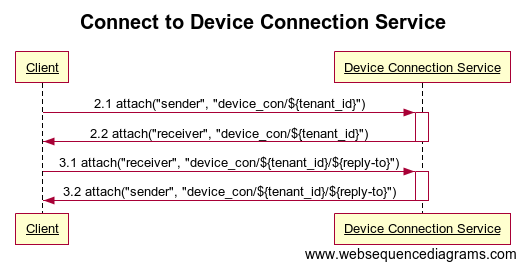
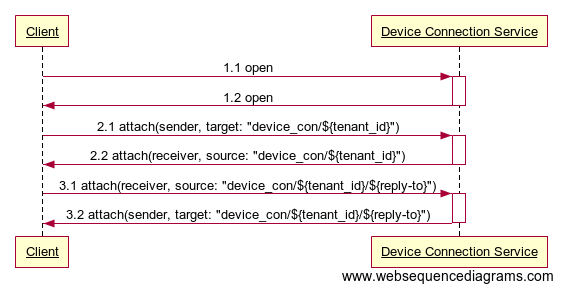
[#1245] Fix diagrams.

Changed region(s): [[0.0, 0.0297, 1.0, 0.9814]]

diff --git a/site/content/api/Device-Connection-API.md b/site/content/api/Device-Connection-API.md
@@ -1,5 +1,6 @@
 +++
-title = "Device Connection API"
+title = "Device Connection API Specification"
+slug = "Device Connection API"
 weight = 425
 +++
 
@@ -17,11 +18,7 @@ The Device Connection API is defined by means of AMQP 1.0 message exchanges, i.e
 
 {{< figure src="../connectToDeviceConnection.png" alt="A client establishes an AMQP connection and the links required to invoke operations of the Device Connection service" title="Client connecting to Device Connection service" >}}
 
-## Operations
-
-The operations described in the following sections are invoked by Hono's components during run time and are therefore mandatory to implement.
-
-### Set Last Known Gateway for Device
+## Set last known Gateway for Device
 
 Clients use this command to *set* the gateway that last acted on behalf of a given device.
 
@@ -30,10 +27,7 @@ As this operation is invoked frequently by Hono's components, implementors may c
 **Message Flow**
 
 
-The following sequence diagram illustrates the flow of messages involved in a *Client* setting the last known gateway for a device.
-
-![Set Last Known Gateway for Device message flow](../set-last-gw_Success.png)
-
+{{< figure src="../setLastKnownGatewayForDevice_Success.png" title="Client sets the last known gateway for a device" alt="A client sends a request message for setting the last known gateway and receives a response containing a confirmation" >}}
 
 **Request Message Format**
 
@@ -52,26 +46,23 @@ A response to a *set last known gateway for device* request contains the [Standa
 
 The response message's *status* property may contain the following codes:
 
-| Code | Description |
-| :--- | :---------- |
-| *204* | OK, the last known gateway for the device was updated. |
-| *400* | Bad Request, the last known gateway has NOT been updated due to invalid data in the request. |
+| Code  | Description |
+| :---- | :---------- |
+| *204* | OK, the last known gateway for the device has been updated. |
+| *400* | Bad Request, the last known gateway has not been updated due to invalid or missing data in the request. |
 
 Implementors of this API may return a *404* status code in order to indicate that no device and/or gateway with the given identifier exists for the given tenant. However, performing such a check is optional.
 
 For status codes indicating an error (codes in the `400 - 499` range) the message body MAY contain a detailed description of the error that occurred.
 
-### Get Last Known Gateway for Device
+## Get last known Gateway for Device
 
 Clients use this command to *retrieve* the gateway that last acted on behalf of a given device.
 
 **Message Flow**
 
 
-The following sequence diagram illustrates the flow of messages involved in a *Client* retrieving the last known gateway for a Device.
-
-![Get Last Known Gateway for Device message flow](../get-last-gw_Success.png)
-
+{{< figure src="../getLastKnownGatewayForDevice_Success.png" title="Client retrieving the last known gateway for a device" alt="A client sends a request message for retrieving the last known gateway and receives a response containing the information" >}}
 
 **Request Message Format**
 
@@ -105,7 +96,7 @@ The response message's *status* property may contain the following codes:
 | Code | Description |
 | :--- | :---------- |
 | *200* | OK, the payload contains the gateway ID. |
-| *400* | Bad Request, the last known gateway could not be retrieved due to invalid data in the request. |
+| *400* | Bad Request, the request message does not contain all required information/properties. |
 | *404* | Not Found, there is no last known gateway assigned to the device. |
 
 Implementors of this API may return a *404* status code in order to indicate that no device with the given identifier exists for the given tenant. However, performing such a check is optional.
